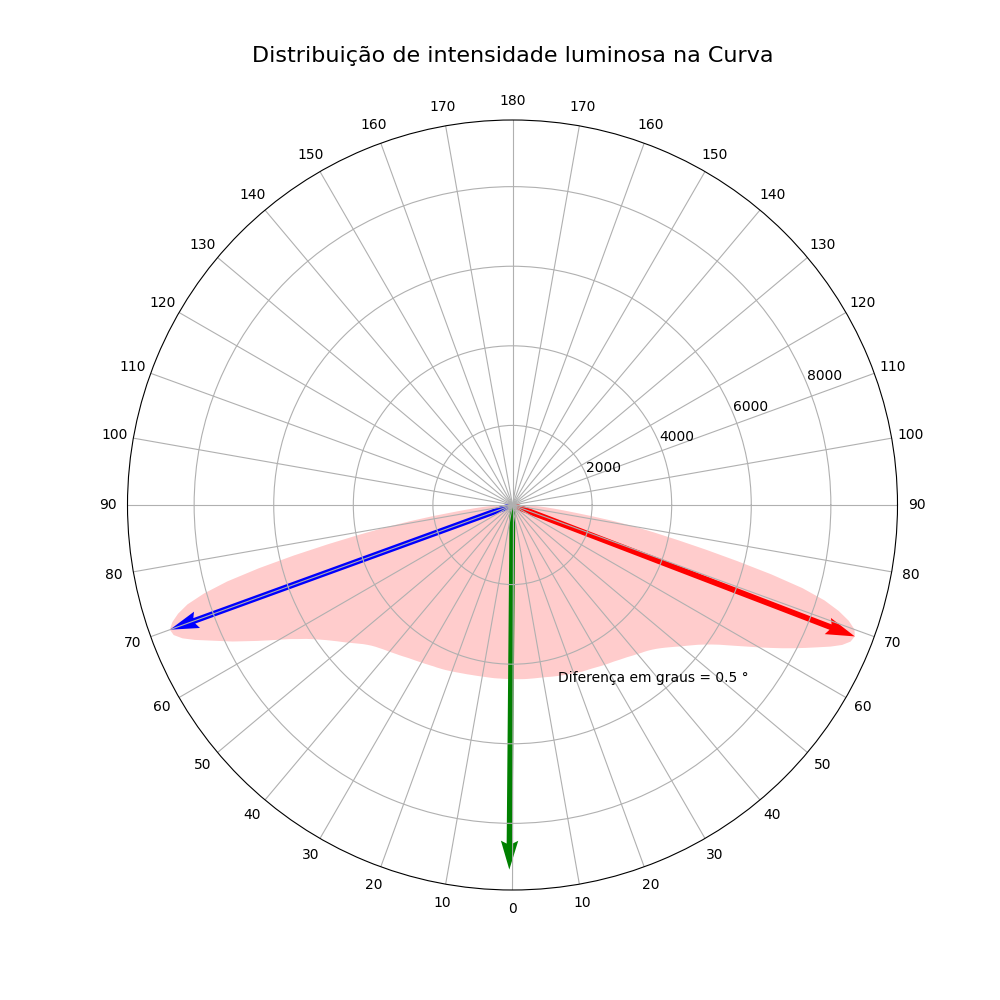
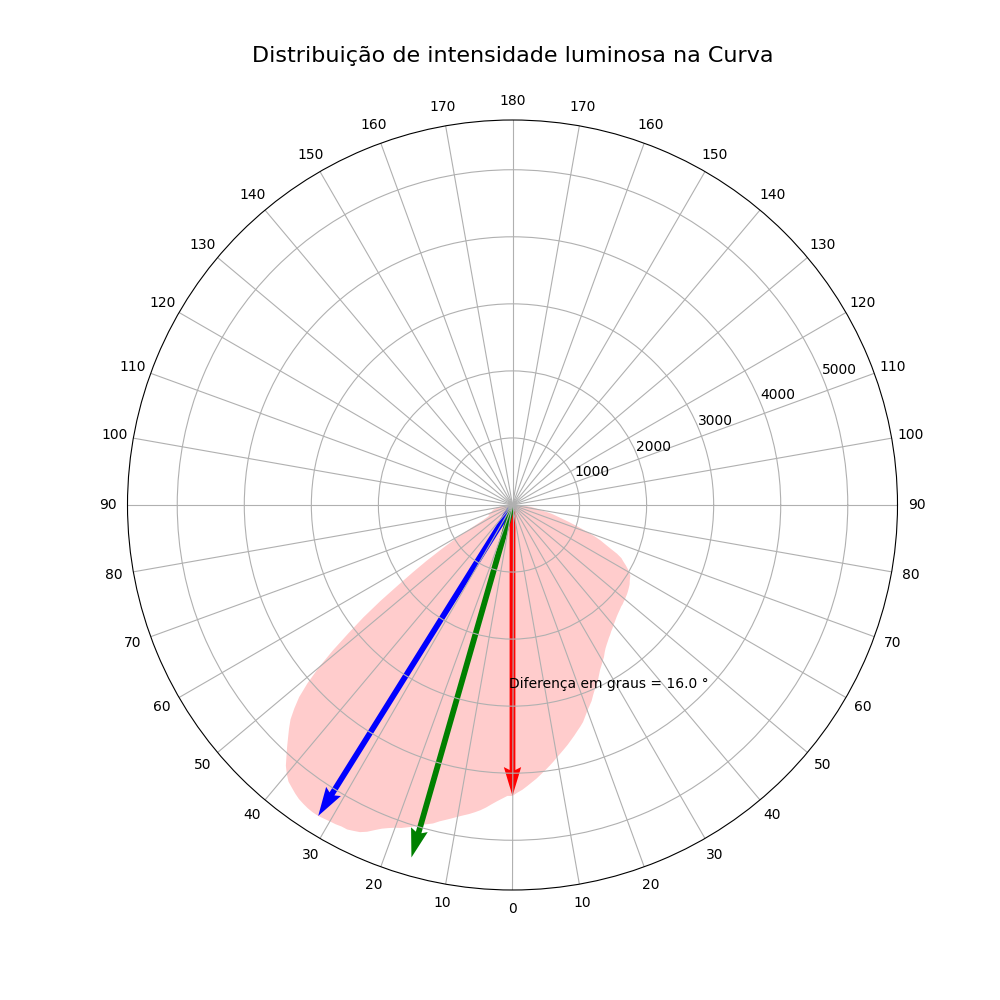
update funcional

diff --git a/VisualIES modify.py b/VisualIES modify.py
@@ -2,6 +2,7 @@ import numpy as np
 import matplotlib.pyplot as plt
 import math
 import statistics as st
+import os
 
 filt = 0.1
 angulo = 6
@@ -99,11 +100,22 @@ def grad(vet):
     return grads
 
 
-def dif(v1, v2):
+def dif(v1, v2, p):
     difer = []
-    v2.reverse()
-    for i, j in zip(v1, v2):
-        difer.append((np.sqrt((i-j)**2))/100)
+    if(p == 1):
+        v2.reverse()
+        for i, j in zip(v1, v2):
+            difer.append(((np.sqrt((i-j)**2))/max(i, j))*100)
+    if(p == 3):
+        v2.reverse()
+        for i, j in zip(v1, v2):
+            difer.append(np.sqrt((i-j)**2))
+
+    if(p == 2):
+        return ((np.sqrt(v1-v2)**2))
+
+    if(p == 0):
+        return (100*(np.sqrt(v1-v2)**2)/max(v1, v2))
 
     return difer
 
@@ -169,92 +181,133 @@ class IES(object):
         return self.dic
 
 
-ies1 = IES("mp.ies")
+def Visual(arq, sub, ang):
 
-Valplt = coord(ies1.Cd(), angulo)  # valor em Cd para cada angulo
+    print('Abrindo...> ' + arq + ' >>>'+'IES_' + arq)
 
-maxmd = [0, 0]
-maxme = [0, 0]
+    ies1 = IES(arq)
+    number = (len(ies1.AngH())-1)/2-ang*(len(ies1.AngH())-1)/4
+    angulo = int(number)
 
-for i, j in zip(Valplt, range(len(Valplt))):
-    if (i > maxmd[0] and j < int(len(Valplt)/2)):
-        maxmd[0] = i
-        maxmd[1] = float(j)
+    if (os.path.exists('./out/'+arq[:int(len(arq)-4)]) != 1):
+        os.makedirs('./out/' + arq[:int(len(arq)-4)])
 
-    if (i > maxme[0] and j > int(len(Valplt)/2)):
-        maxme[0] = i
-        maxme[1] = float(j)
-print(i, j)
+    Valplt = coord(ies1.Cd(), angulo)  # valor em Cd para cada angulo
 
-meio = ((maxme[1]-maxmd[1])/2)+maxmd[1]+180
+    maxmd = [0, 0]
+    maxme = [0, 0]
 
-plt.figure(figsize=(10, 10))
+    for i, j in zip(Valplt, range(len(Valplt))):
+        if (i > maxmd[0] and j < int(len(Valplt)/2)):
+            maxmd[0] = i
+            maxmd[1] = float(j)
 
-plt.axes(projection='polar')
+        if (i > maxme[0] and j > int(len(Valplt)/2)):
+            maxme[0] = i
+            maxme[1] = float(j)
+    print(i, j)
 
-x1 = list(range(90, 180, 10))
-x2 = sorted(x1, key=int, reverse=True)
-x3 = list(range(10, 90, 10))
-x4 = sorted(x3, key=int, reverse=True)
-x = x1+[180]+x2+x4+[0]+x3
+    meio = ((maxme[1]-maxmd[1])/2)+maxmd[1]+180
 
-plt.thetagrids(range(0, 360, 10), x)
-plt.title("Distribuição de intensidade luminosa na Curva\n", fontsize=16)
-plt.quiver(0, 0, maxmd[1]*np.pi/180-np.pi/2, maxmd[0], color='red',
-           angles="xy", scale_units='xy', scale=1.)
-plt.fill(rad(Valplt), Valplt, '.r', alpha=0.2)
-plt.quiver(0, 0, maxme[1]*np.pi/180-np.pi/2, maxme[0], color='blue',
-           angles="xy", scale_units='xy', scale=1.)
+    plt.figure(figsize=(10, 10))
 
-plt.quiver(0, 0, meio*np.pi/180-np.pi/2, (maxme[0]+maxme[0])/2, color='g',
-           angles="xy", scale_units='xy', scale=1.)
+    plt.axes(projection='polar')
 
-plt.text((meio+15)*np.pi/180-np.pi/2, (maxme[0]+maxme[0])/4, 'Diferença em graus = ' +
-         str(360-meio)[:5]+" °")
+    x1 = list(range(90, 180, 10))
+    x2 = sorted(x1, key=int, reverse=True)
+    x3 = list(range(10, 90, 10))
+    x4 = sorted(x3, key=int, reverse=True)
+    x = x1+[180]+x2+x4+[0]+x3
 
-plt.savefig(page+'Distribuição.png')
-# plt.show()
+    plt.thetagrids(range(0, 360, 10), x)
+    plt.title("Distribuição de intensidade luminosa na Curva\n" +
+              sub, fontsize=16)
+    plt.quiver(0, 0, maxmd[1]*np.pi/180-np.pi/2, maxmd[0], color='red',
+               angles="xy", scale_units='xy', scale=1.)
+    plt.fill(rad(Valplt), Valplt, '.r', alpha=0.2)
+    plt.quiver(0, 0, maxme[1]*np.pi/180-np.pi/2, maxme[0], color='blue',
+               angles="xy", scale_units='xy', scale=1.)
 
-plt.figure(figsize=(10, 10))
-plt.subplot(2, 1, 1)
-plt.title('Simetria da distribuição luminosa\n')
-plt.plot(grad(Valplt)[:180], Valplt[180:], color='blue')
+    plt.quiver(0, 0, meio*np.pi/180-np.pi/2, (maxme[0]+maxme[0])/2, color='g',
+               angles="xy", scale_units='xy', scale=1.)
 
-plt.plot(grad(Valplt)[180:], Valplt[0:180], color='red')
+    plt.text((meio+15)*np.pi/180-np.pi/2, (maxme[0]+maxme[0])/4, 'Diferença em graus = ' +
+             str(360-meio)[:5]+" °")
 
-plt.axhline(y=max(Valplt[0:180]), color='r', linestyle='-.', alpha=0.5)
+    plt.savefig('./out/' + arq[:int(len(arq)-4)] +
+                '/'+'Distribuição_'+sub+'.png')
+    # plt.show()
 
-plt.axhline(y=max(Valplt[180:]), color='b', linestyle='-.', alpha=0.5)
+    plt.figure(figsize=(10, 10))
+    plt.subplot(2, 1, 1)
+    plt.title('Simetria da distribuição luminosa\n'+sub)
+    plt.plot(grad(Valplt)[:180], Valplt[180:], color='blue')
 
-plt.axvline(x=maxmd[1], color='r', linestyle=':', alpha=0.5)
+    plt.plot(grad(Valplt)[180:], Valplt[0:180], color='red')
 
-plt.axvline(x=360-maxme[1], color='b', linestyle=':', alpha=0.5)
+    plt.axhline(y=max(Valplt[0:180]), color='r', linestyle='-.', alpha=0.5)
+
+    plt.axhline(y=max(Valplt[180:]), color='b', linestyle='-.', alpha=0.5)
+
+    plt.axvline(x=maxmd[1], color='r', linestyle=':', alpha=0.5)
+
+    plt.axvline(x=360-maxme[1], color='b', linestyle=':', alpha=0.5)
+
+    plt.text(8, dif(max(Valplt[0:180]), max(Valplt[180:]), 2), 'Média da diferença = '+str(
+        dif(max(Valplt[0:180]), max(Valplt[180:]), 0))[:5]+"%"+"\nDiferença absoluta = "+str(dif(max(Valplt[0:180]), max(Valplt[180:]), 2)).split(".")[0]+"Cd", style='italic')
+
+    plt.subplot(2, 1, 2)
+    plt.fill(grad(Valplt)[:180], dif(Valplt[180:],
+                                     Valplt[0:180], 3), color='r', alpha=0.2)
+
+    print(dif(max(Valplt[0:180]), max(Valplt[180:]), 0))
+
+    plt.text(8, max(dif(Valplt[180:], Valplt[0:180], 3)), 'Máxima da diferença = '+str(max(dif(Valplt[180:],
+                                                                                               Valplt[0:180], 3)))[:5], style='italic')
+    plt.text(8, st.mean(dif(Valplt[180:], Valplt[0:180], 3)), 'Média da diferença = '+str(st.mean(dif(Valplt[180:],
+                                                                                                      Valplt[0:180], 3)))[:5], style='italic')
+    '''plt.scatter(grad(Valplt)[:180], dif(Valplt[180:],
+                                        Valplt[0:180]), c=dif(Valplt[180:], Valplt[0:180]))'''
+    plt.axhline(y=st.mean(dif(Valplt[180:],
+                              Valplt[0:180], 3)), color='r', linestyle='-', alpha=0.6)
+
+    plt.savefig('./out/' + arq[:int(len(arq)-4)]+'/'+'Simetria_'+sub+'.png')
 
 
-plt.subplot(2, 1, 2)
-plt.fill(grad(Valplt)[:180], dif(Valplt[180:],
-         Valplt[0:180]), color='r', alpha=0.2)
+    # plt.show()
+key = 's'
 
-plt.text(8, st.mean(dif(Valplt[180:], Valplt[0:180])), 'Média da diferença = '+str(st.mean(dif(Valplt[180:],
-                                                                                               Valplt[0:180])))[:5]+"%", style='italic')
-'''plt.scatter(grad(Valplt)[:180], dif(Valplt[180:],
-                                    Valplt[0:180]), c=dif(Valplt[180:], Valplt[0:180]))'''
-plt.axhline(y=st.mean(dif(Valplt[180:],
-                          Valplt[0:180])), color='r', linestyle='-', alpha=0.6)
+while (key == 's'):
+    dire = input("\nArraste a pasta aqui!!").replace('\"', '')
+    os.system('cls')
+    dire = dire.replace('\'', '')
+    dire = dire.replace('&', '')
+    if (dire[0] == " "):
+        dire = dire[1:]
+    print(dire)
+    os.chdir(dire)
 
-plt.savefig(page+'Simetria.png')
-# plt.show()
+    page = os.getcwd()
+    lista = os.listdir(page)
+    IESs = []
+    cwd = page
 
-'''plt.quiver(0, 0, maxmd[1], maxmd[0], color='red',
-           angles="xy", scale_units='xy', scale=1.)
-plt.quiver(0, 0, maxme[1], maxme[0], color='blue',
-           angles="xy", scale_units='xy', scale=1.)
+    for i in lista:
+        arq = i.split('.')
+        if (len(arq) > 1):
+            if arq[1] == 'ies':
+                if (arq[0].count('IES_') != 1):
+                    IESs.append(i)
 
-plt.quiver(0, 0, (maxmd[1]-(maxme[1]+float(90*2-i)*np.pi/180))+np.pi, (maxmd[0]+maxme[0])/2, color='g',
-           angles="xy", scale_units='xy', scale=1.)'''
+    if (os.path.exists('out') != 1):
+        os.makedirs(page+'//out')
+        page += page+'//out'
 
-'''plt.plot(rad(coord(ies1.Cd(), angulo+6)),
-         coord(ies1.Cd(), angulo+6), '-b', alpha=0.1)'''
-'''plt.fill(rad(coord(ies1.Cd(), angulo+6)),
-         coord(ies1.Cd(), angulo+6), '-b', alpha=0.1)'''
-# plt.savefig(page+'Saida.png')
+    # convert('m2.ies')
+    u = 0
+    for i in IESs:
+        Visual(i, '90_270', 0)
+        Visual(i, '180_90', 1)
+        u += 1
+
+    print('\n', u, 'Arquivos convertidos')
